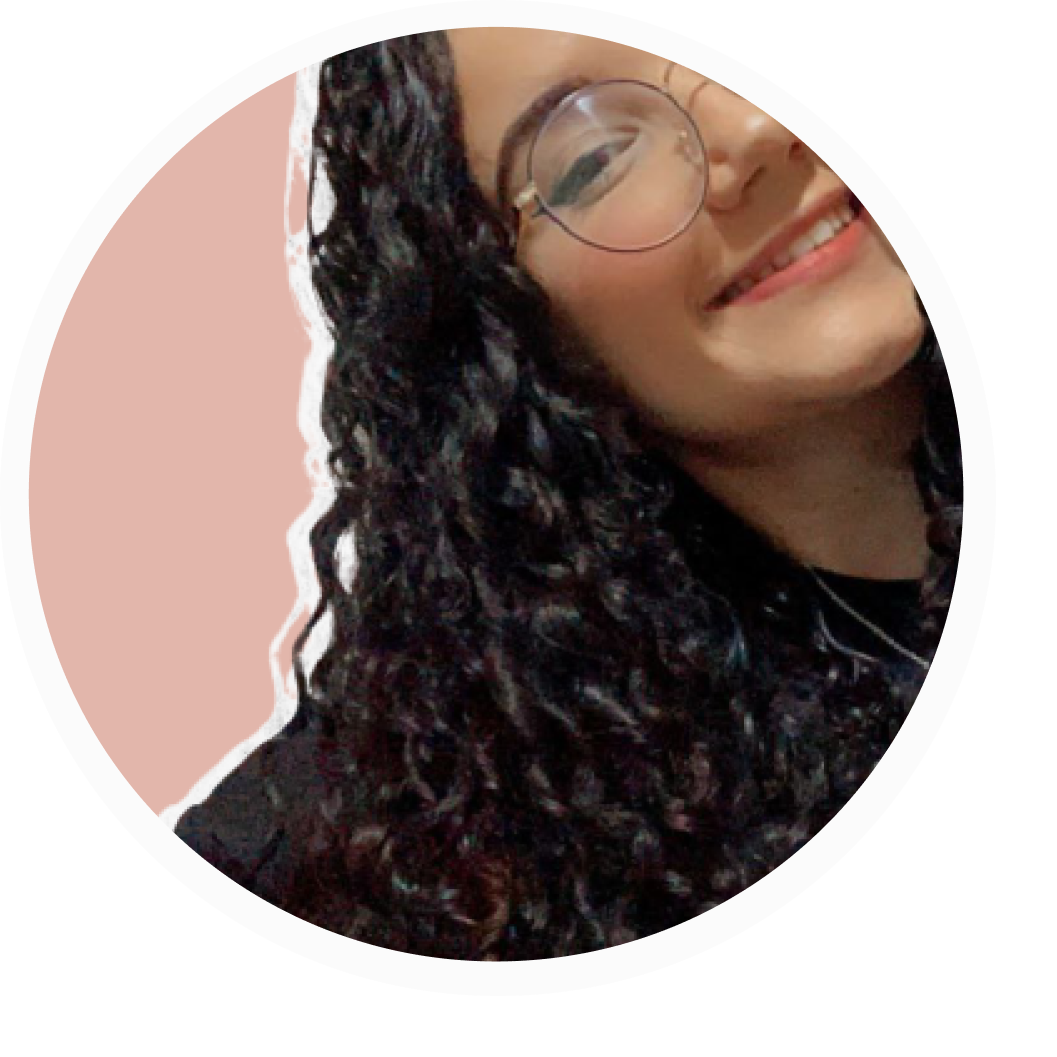
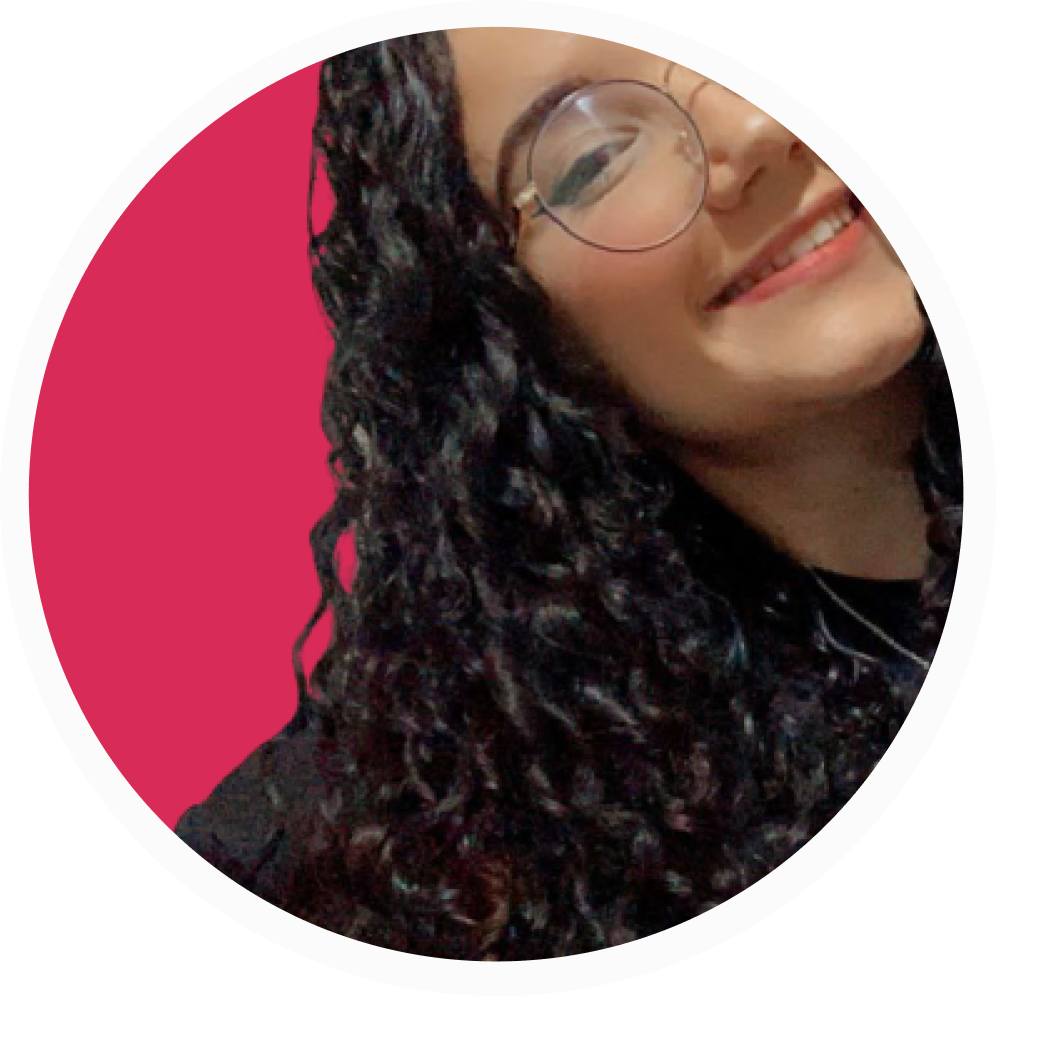
update colors

Changed region(s): [[0.0, 0.0624, 0.3434, 0.7805]]

diff --git a/src/App.css b/src/App.css
@@ -3,7 +3,7 @@
 @import url('https://fonts.googleapis.com/css2?family=Poppins:wght@100;300;400;500;600;700;800;900&display=swap');
 
 :root {
-  --color-brand-primary: #E2B6AB;
+  --color-brand-primary: #D92B58;
   --color-brand-tertiary: #F1DEDD;
   --color-action-primary: #BFD8B8;
   --color-neutral-lighest: #F2F2F2;
@@ -553,16 +553,13 @@ input[type="button"] {
   border: none;
   cursor: pointer;
   height: auto;
+  border-radius: 10px;
 
   -webkit-transition: all 0.2s ease-in-out;
   -moz-transition: all 0.2s ease-in-out;
   -o-transition: all 0.2s ease-in-out;
   -ms-transition: all 0.2s ease-in-out;
   transition: all 0.2s ease-in-out;
-
-  -moz-border-radius: 0px;
-  -webkit-border-radius: 0px;
-  -khtml-border-radius: 0px;
 }
 
 .button:hover,

diff --git a/src/components/LanguageSelect/index.js b/src/components/LanguageSelect/index.js
@@ -30,7 +30,7 @@ const LanguageSelect = () => {
     <div className="language-select">
       <Button onClick={({ currentTarget }) => setMenuAnchor(currentTarget)} style={{color: '#fff', fontFamily: 'Poppins', fontSize: '1em'}}>
         {languageMap[selected].label}
-        <ArrowDropDown fontSize="small" style={{color: '#E2C2B9', fontSize: '1.7em'}} />
+        <ArrowDropDown fontSize="small" style={{color: '#D92B58', fontSize: '1.7em'}} />
       </Button>
       <hr/>
       <Popover

diff --git a/src/components/Header/index.js b/src/components/Header/index.js
@@ -45,7 +45,7 @@ export default function Header(props) {
     <header id="home">
       <ParticlesBg
         num={40}
-        color="#E2C2B9"
+        color="#D92B58"
         config={config}
         type="cobweb"
         bg={true}

diff --git a/src/components/Header/style.css b/src/components/Header/style.css
@@ -192,8 +192,8 @@ ul#nav li a:active {
     background-color: transparent !important;
 }
 
-ul#nav li.current a {
-    color: var(--color-brand-tertiary);
+ul#nav li a:hover {
+    opacity: 0.8;
 }
 
 .social .btn:first-child {
